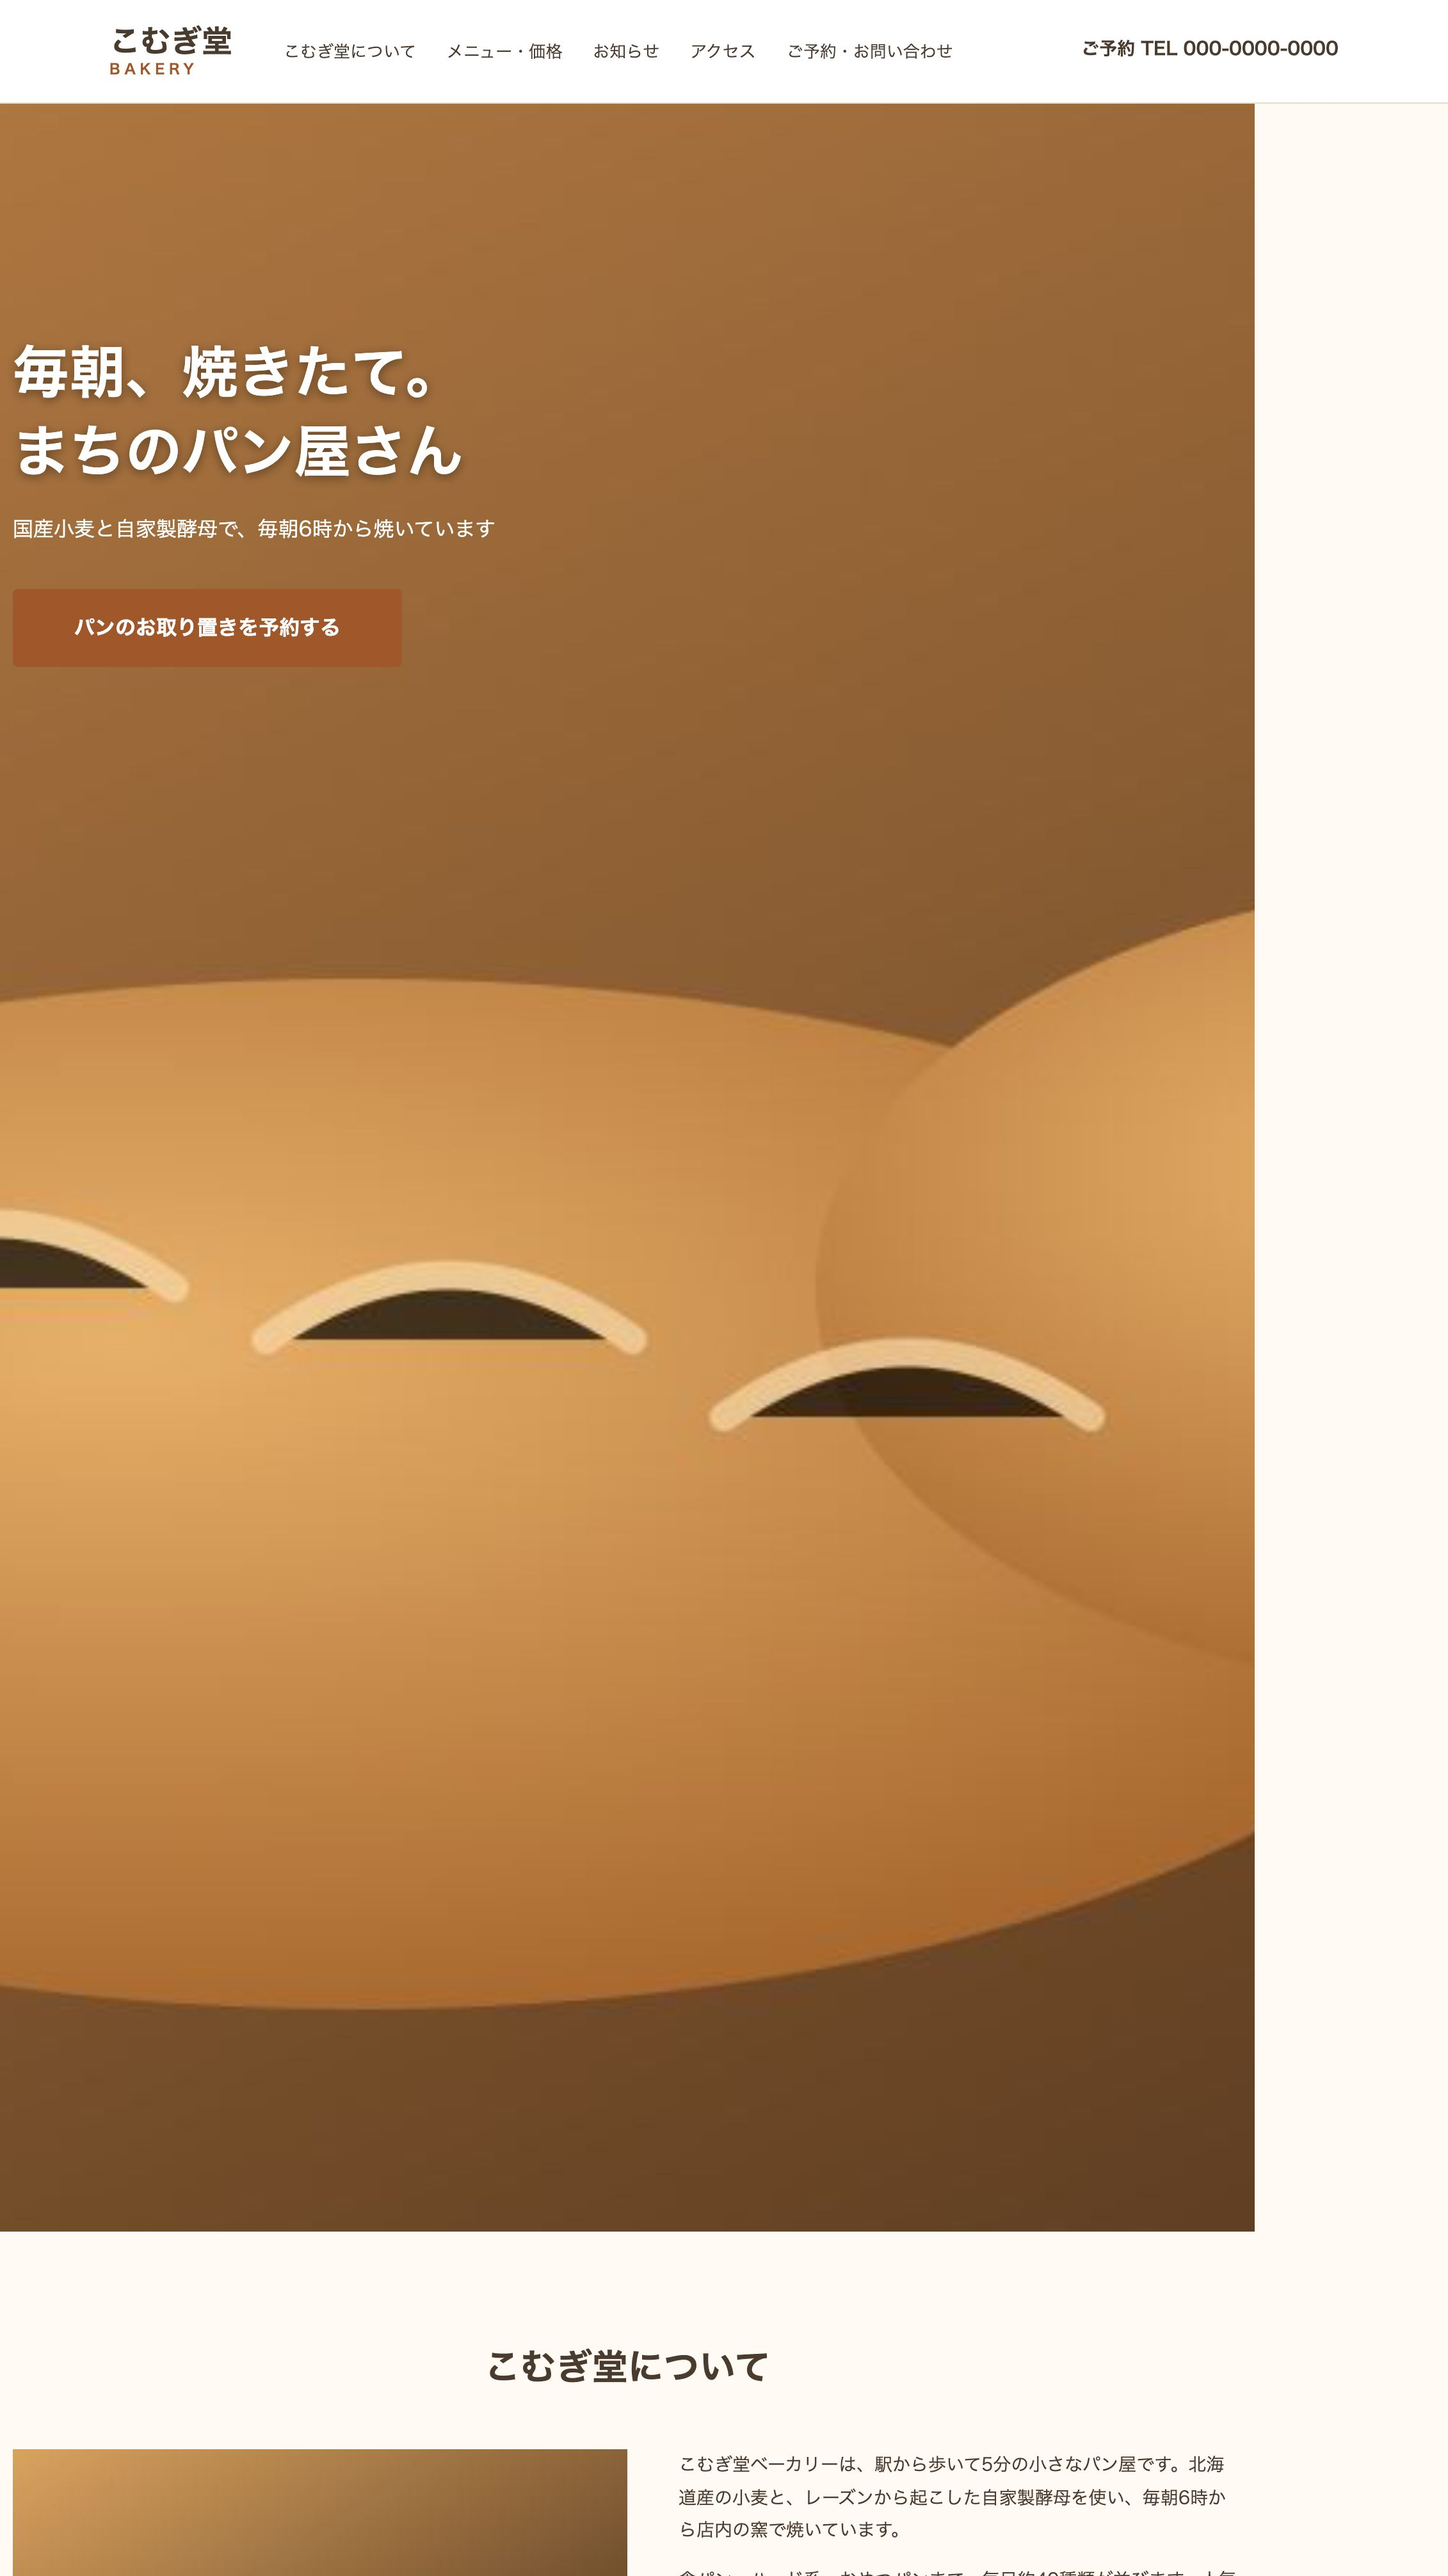
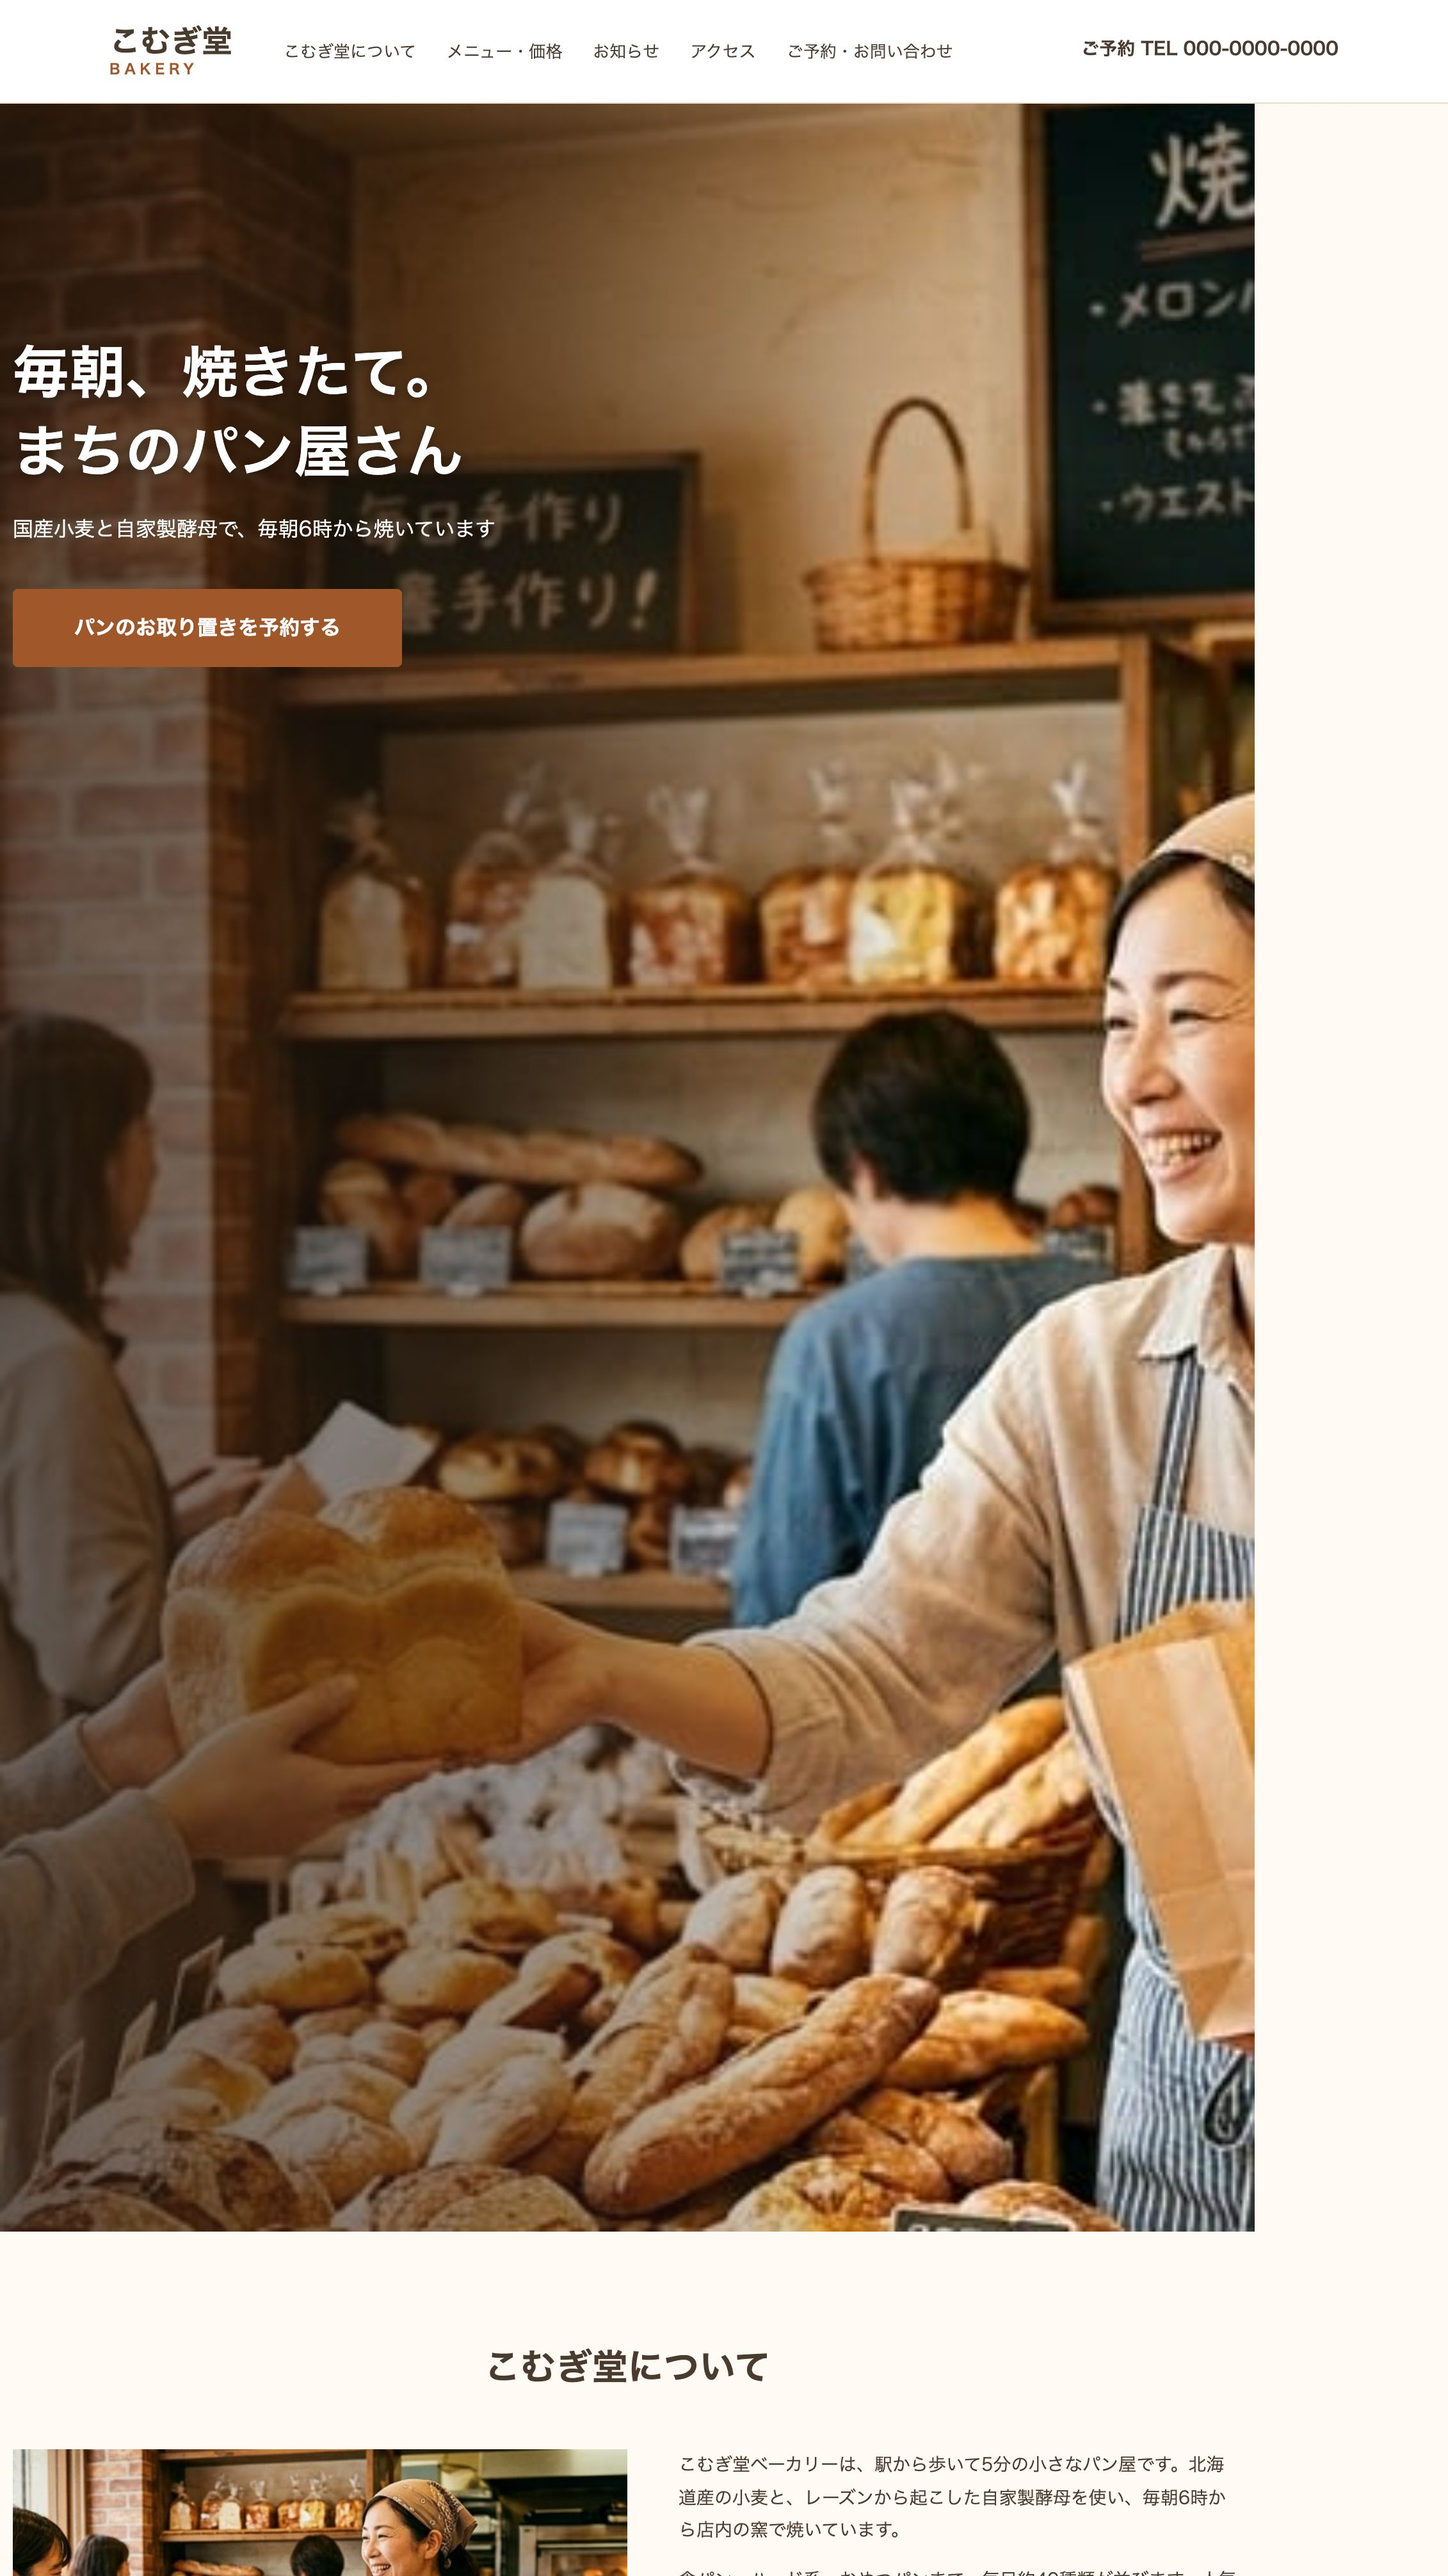
sample-02: replace placeholder images with bakery photos

diff --git a/sample-02/after/css/style.css b/sample-02/after/css/style.css
@@ -88,7 +88,9 @@ a { color: #a0582a; }
 .hero {
   height: 100vh;
   padding-top: 80px;
-  background: url(../images/hero.jpg) center center / cover no-repeat fixed;
+  background:
+    linear-gradient(90deg, rgba(40, 25, 15, 0.7) 0%, rgba(40, 25, 15, 0.45) 45%, rgba(40, 25, 15, 0) 75%),
+    url(../images/hero.jpg) center center / cover no-repeat fixed;
   box-sizing: border-box;
 }
 .hero-inner {
@@ -452,6 +454,10 @@ body {
     grid-template-columns: repeat(3, 1fr);
   }
 
+  /* 文字が写真の全幅にかかるので、写真全体を暗くして読みやすく */
+  .hero {
+    background-image: linear-gradient(rgba(40, 25, 15, 0.55), rgba(40, 25, 15, 0.55)), url(../images/hero.jpg);
+  }
   .hero-inner {
     padding-top: 56px;
     padding-bottom: 56px;

diff --git a/sample-02/before/css/style.css b/sample-02/before/css/style.css
@@ -88,7 +88,9 @@ a { color: #a0582a; }
 .hero {
   height: 100vh;
   padding-top: 80px;
-  background: url(../images/hero.jpg) center center / cover no-repeat fixed;
+  background:
+    linear-gradient(90deg, rgba(40, 25, 15, 0.7) 0%, rgba(40, 25, 15, 0.45) 45%, rgba(40, 25, 15, 0) 75%),
+    url(../images/hero.jpg) center center / cover no-repeat fixed;
   box-sizing: border-box;
 }
 .hero-inner {
